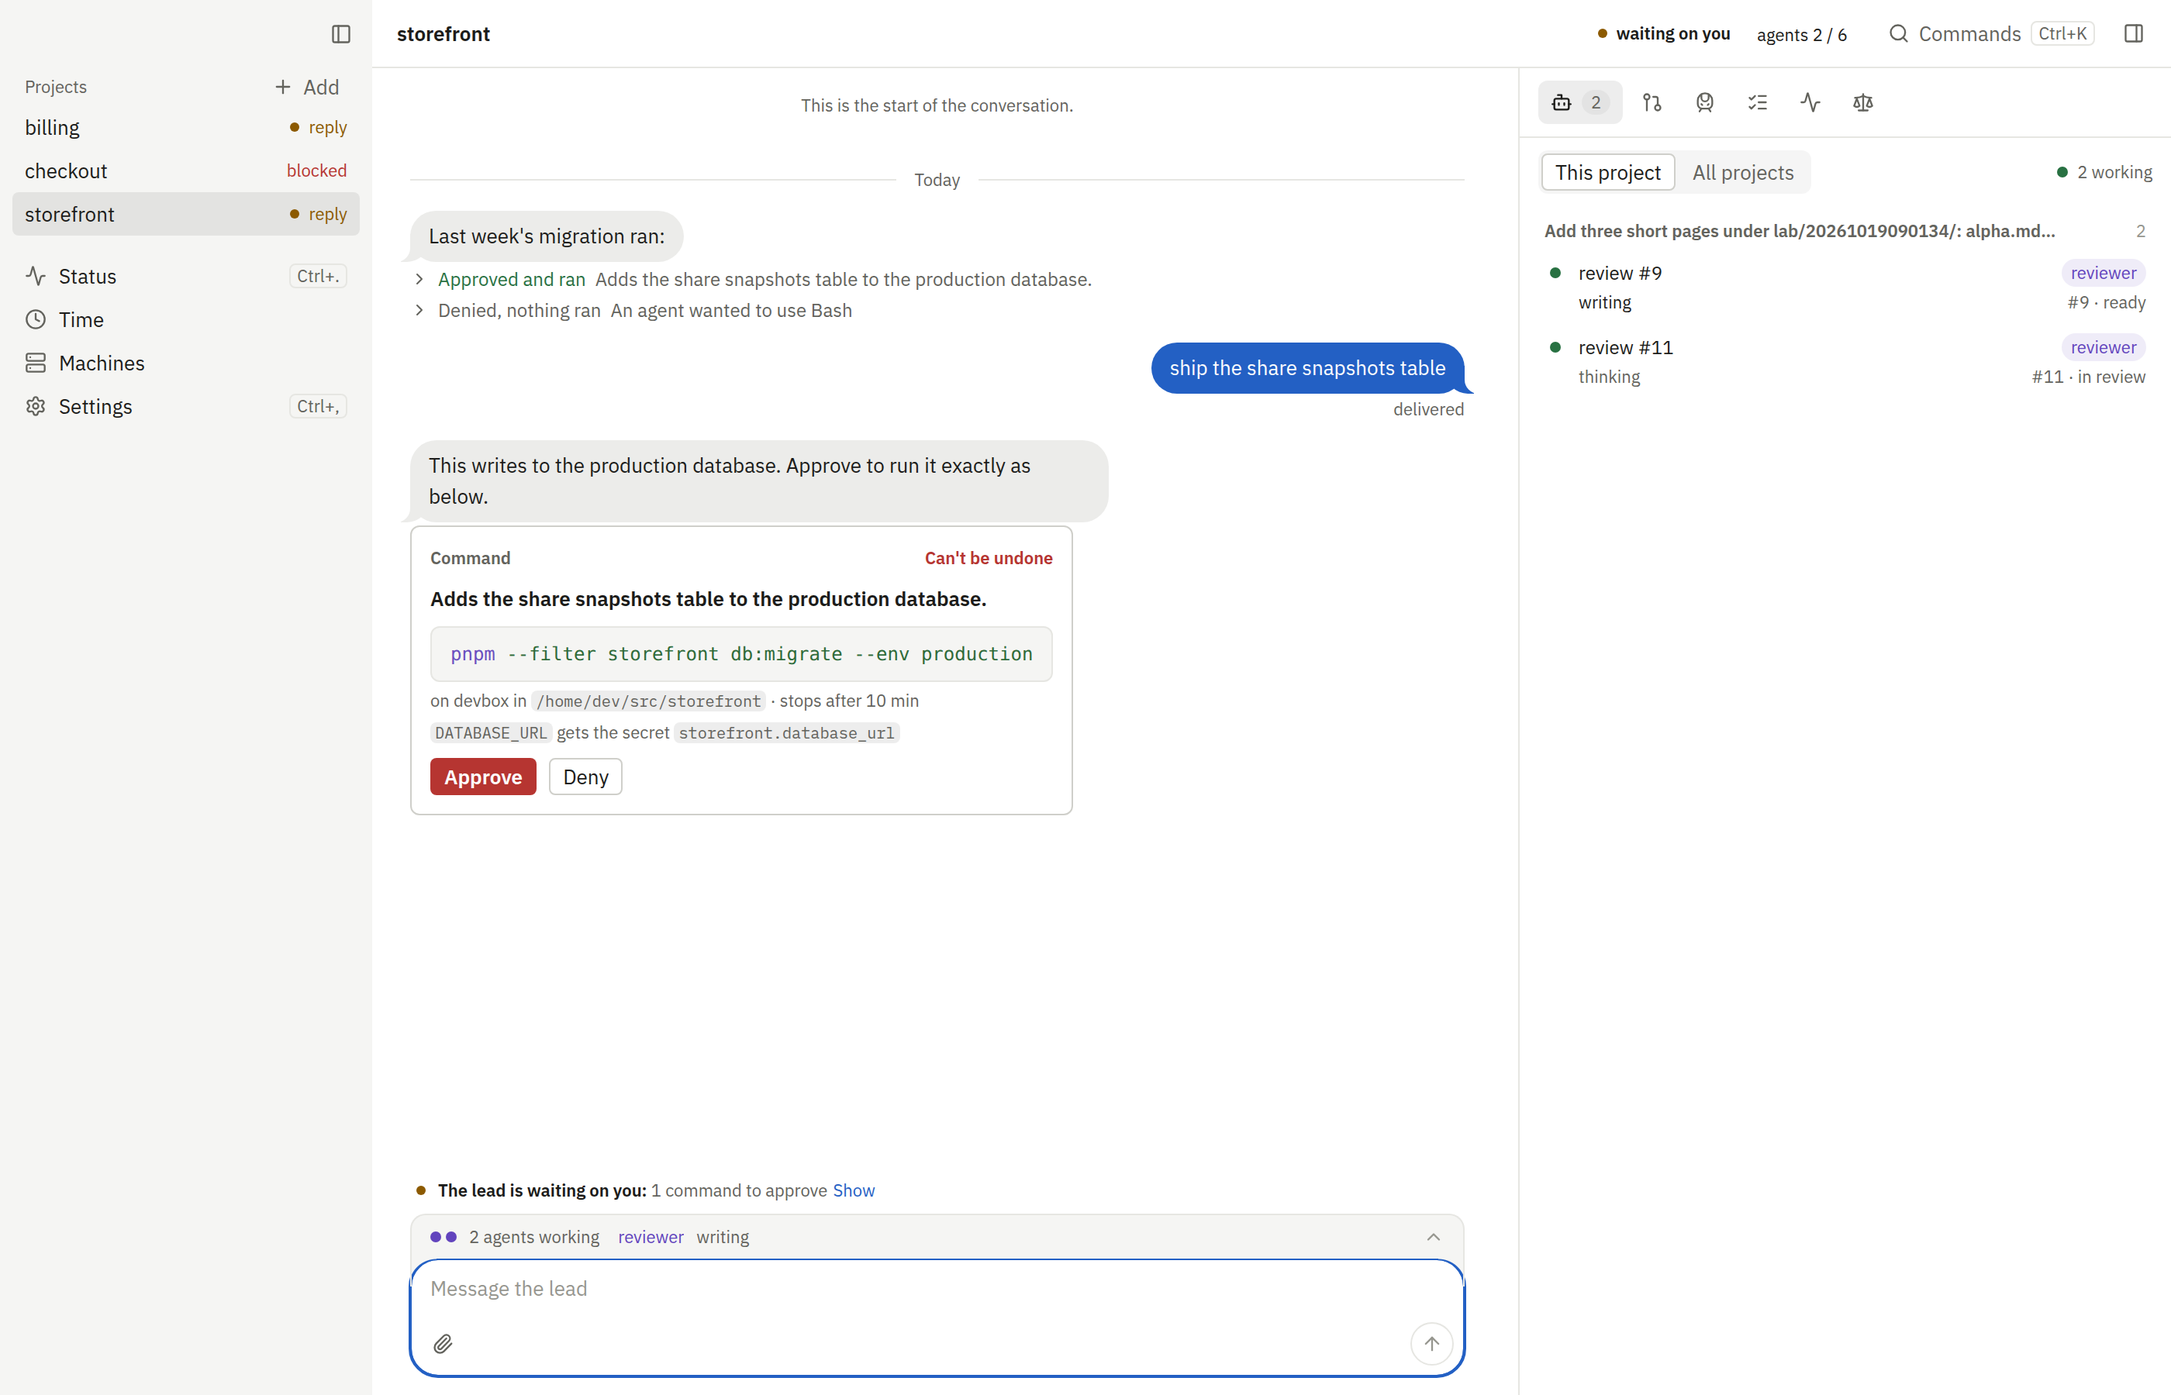
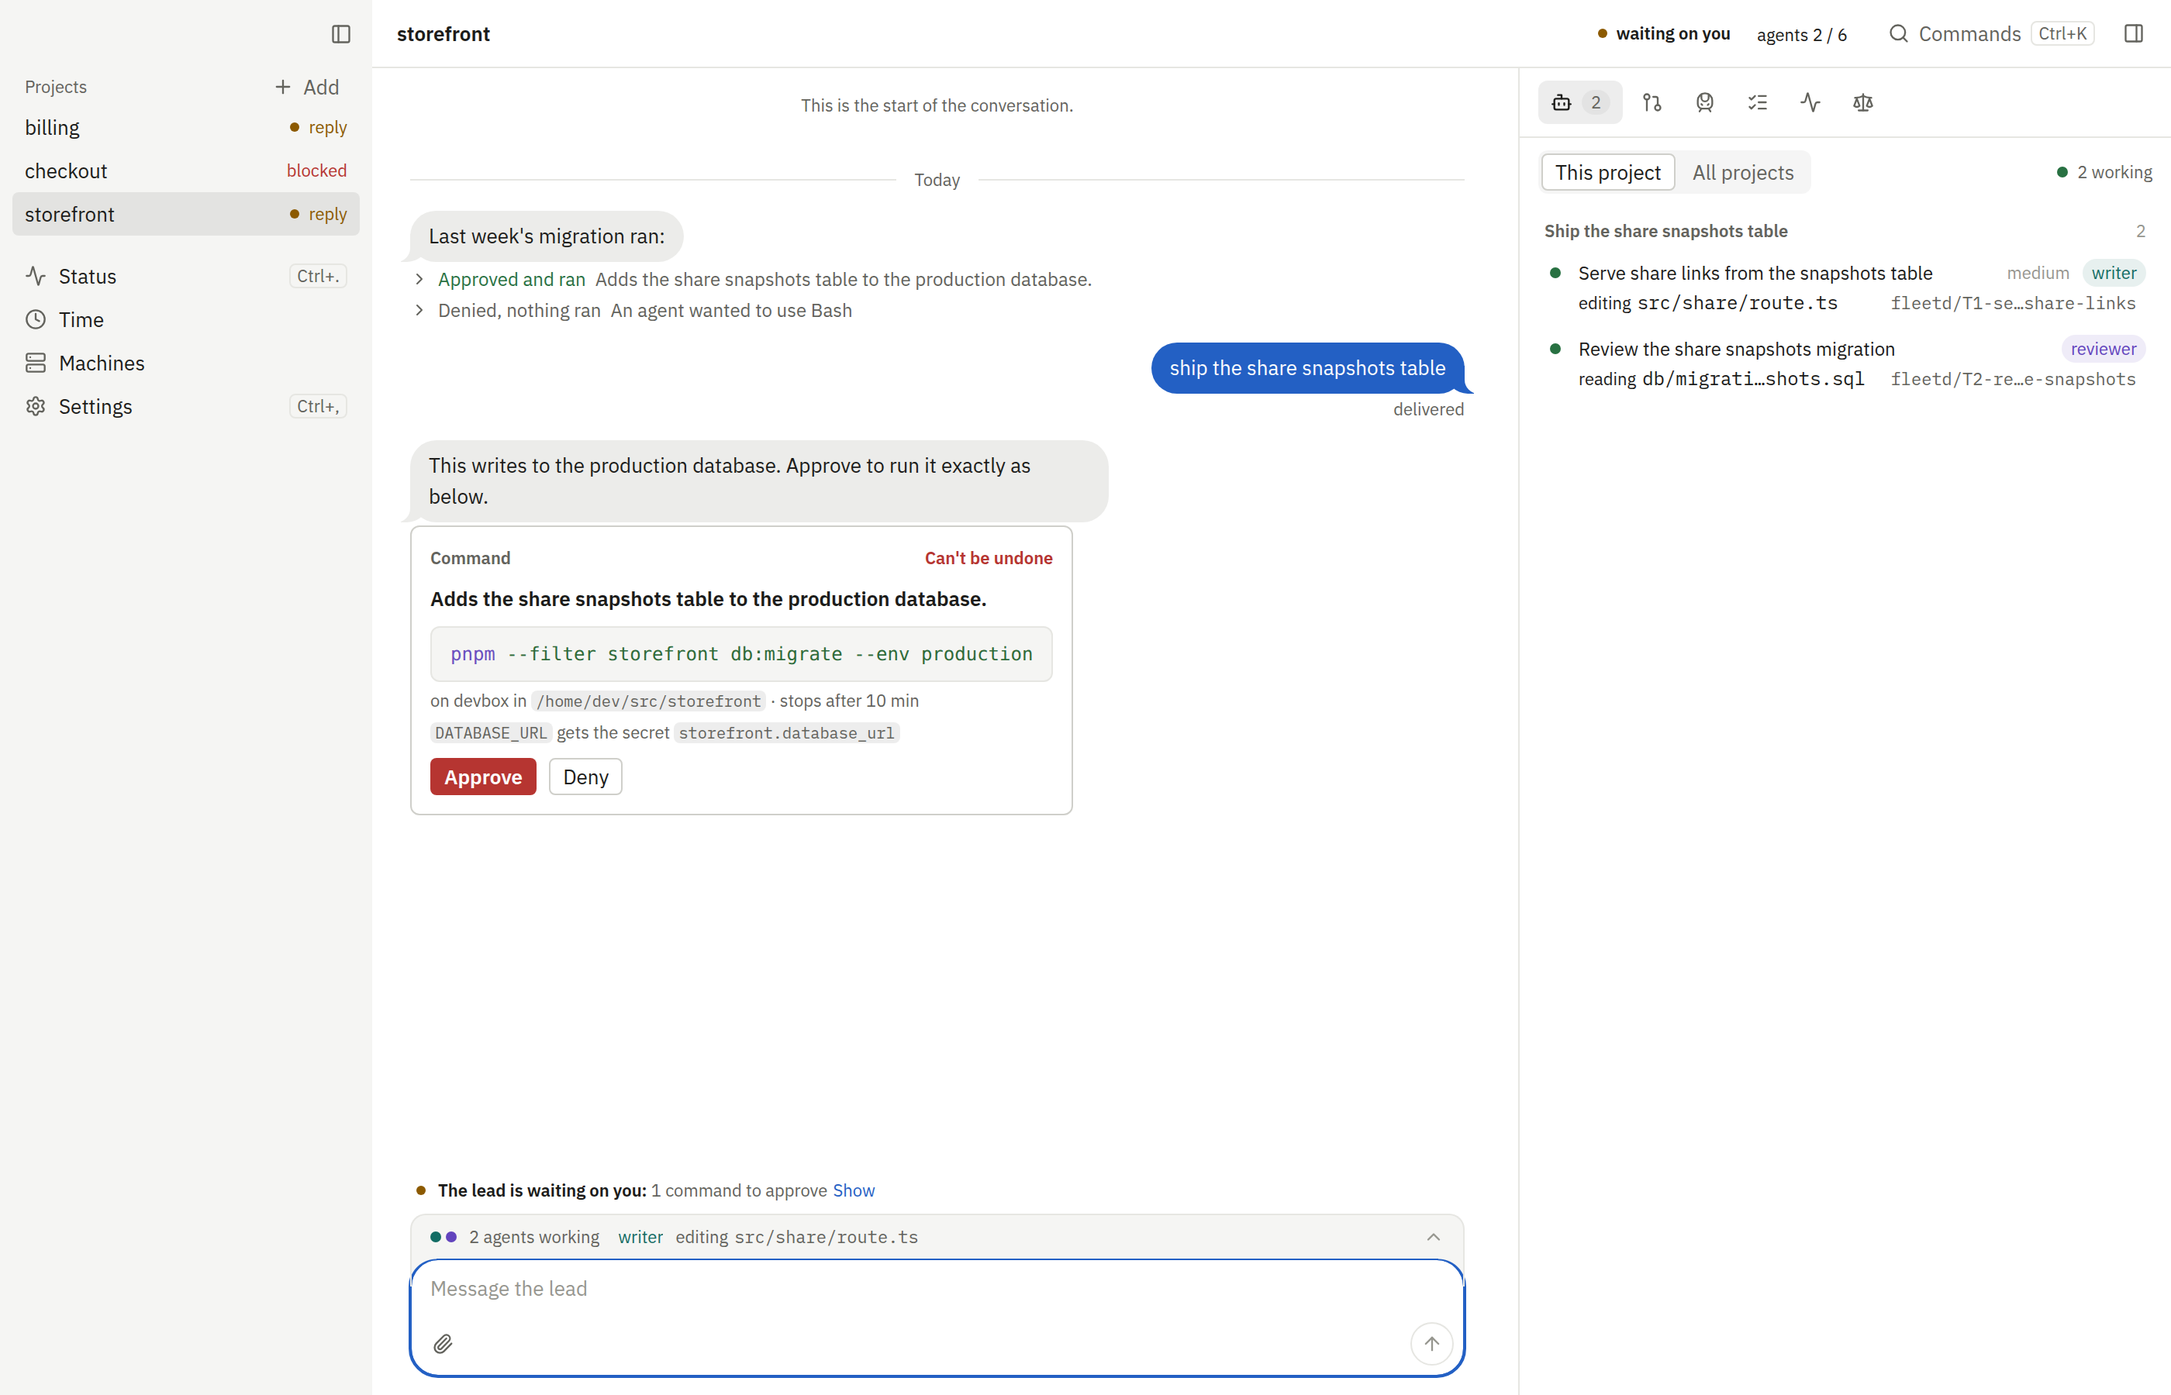
fix(site): panel tabs as the app names them, a true hero alt, scene-fitting panel in the approve and secret shots
- The panel's tabs on the page and in fleetd.txt: Agents, Pull requests, Train, Checklist, Activity and Decisions,
  the app's names in its order.
- The hero's alt text puts the live strip on top of the message box, where it sits now.
- chat-gated and chat-secret get agents on what their chat asked for (sceneStrip in the fixture kit), not the
  recorded lab order, so the panel in site/chat-approve.png, site/chat-secret.png and the docs' chat-command.png and
  chat-secret.png fits the scene. Re-shot with `pnpm site:shots`; alts name the panel's agents; site/docs rebuilt.
- site-layout-check.mjs drops the callout-note code the page no longer has, and names what sticks out when the page
  scrolls sideways.

Changed region(s): [[0.7146, 0.1556, 0.9321, 0.28], [0.9321, 0.1867, 0.9943, 0.28], [0.2796, 0.8711, 0.4039, 0.9022]]

diff --git a/app/desktop/fixtures/kit/shared.ts b/app/desktop/fixtures/kit/shared.ts
@@ -9,7 +9,7 @@ import { at } from "./ids.ts";
 import { isObject, type JsonObject, asText } from "./json.ts";
 import { arr, longText, manyAgents, manyPrompts, NODE_TOO_OLD } from "./stress.ts";
 import { explainLoss } from "../../src/main/hub/explain.ts";
-import { agentsAt, answerRows, commandApproval, LOG, SCREENSHOT, type Draft, firstProject, fromLines, liveStrip, migrated, type Ref, secretRequest, statusRow, streamReply, writeChat } from "./chat.ts";
+import { agentsAt, answerRows, commandApproval, LOG, SCREENSHOT, type Draft, firstProject, fromLines, liveStrip, migrated, type Ref, type SceneAgent, sceneStrip, secretRequest, statusRow, streamReply, writeChat } from "./chat.ts";
 import { longChat, QUESTION, STREAMING_REST, STREAMING_SO_FAR, TERSE } from "./chatText.ts";
 import { uuid } from "./ids.ts";
 import { LONG_TITLES, ofLength } from "./text.ts";
@@ -113,6 +113,7 @@ const withProjectsMix = (f: Fixture): Fixture => {
 
 const chatFixtures = (copy: (name: SharedName, note: string) => Fixture): Array<Fixture> => {
   const strip = (f: Fixture, n: number) => liveStrip(f, firstProject(f), n);
+  const scene = (f: Fixture, title: string, agents: ReadonlyArray<SceneAgent>) => sceneStrip(f, firstProject(f), title, agents);
   return [
     withChat(copy("chat-long", `${String(LONG)}+ messages in the first project's chat, paged 50 at a time: migrated past orders first, Markdown, code, lists, the lead's numbered question and terse replies.`), longDrafts()),
     (() => {
@@ -132,28 +133,44 @@ const chatFixtures = (copy: (name: SharedName, note: string) => Fixture): Array<
       { author: "human", text: "", attachments: [SCREENSHOT] },
       { author: "lead", text: "Got both. The date wraps under the total on narrow screens; a writer is fixing the layout." },
     ]),
-    withChat(
-      copy("chat-secret", "The lead needs a secret: an open masked entry inline, and an earlier one already stored."),
+    // The agents beside each item work on what its chat asked for, so the panel and the strip fit the scene (the
+    // site's approve and secret shots are these chats).
+    scene(
+      withChat(
+        copy("chat-secret", "The lead needs a secret: an open masked entry inline, and an earlier one already stored; two agents work on the checkout tests."),
+        [
+          { author: "lead", text: "Stored earlier for the receipt tests." },
+          { author: "lead", text: "", item: secretRequest("stored", copy("empty", "")) },
+          { author: "human", text: "run the checkout tests against Stripe test mode" },
+          { author: "lead", text: "Need the Stripe test key for that. It goes to devbox only and never into this chat." },
+          { author: "lead", text: "", item: secretRequest("open", copy("empty", "")) },
+        ],
+        { needsYou: true },
+      ),
+      "Run the checkout tests against Stripe test mode",
       [
-        { author: "lead", text: "Stored earlier for the receipt tests." },
-        { author: "lead", text: "", item: secretRequest("stored", copy("empty", "")) },
-        { author: "human", text: "run the checkout tests against Stripe test mode" },
-        { author: "lead", text: "Need the Stripe test key for that. It goes to devbox only and never into this chat." },
-        { author: "lead", text: "", item: secretRequest("open", copy("empty", "")) },
+        { role: "implementer", title: "Point the checkout tests at Stripe test mode", activity: { kind: "edit", path: "tests/checkout/stripe.setup.ts" } },
+        { role: "reader", title: "Read how the receipt tests use Stripe", activity: { kind: "read", path: "tests/receipt/charge.test.ts" } },
       ],
-      { needsYou: true },
     ),
-    withChat(
-      copy("chat-gated", "A risky command waits for Approve / Deny: the exact command inline; an earlier one ran, one was denied, and an agent's permission prompt."),
+    scene(
+      withChat(
+        copy("chat-gated", "A risky command waits for Approve / Deny: the exact command inline; an earlier one ran, one was denied, and an agent's permission prompt; two agents work on the share snapshots."),
+        [
+          { author: "lead", text: "Last week's migration ran:" },
+          { author: "lead", text: "", item: commandApproval("ran", copy("empty", "")) },
+          { author: "lead", text: "", item: commandApproval("denied", copy("empty", ""), true) },
+          { author: "human", text: "ship the share snapshots table" },
+          { author: "lead", text: "This writes to the production database. Approve to run it exactly as below." },
+          { author: "lead", text: "", item: commandApproval("open", copy("empty", "")) },
+        ],
+        { needsYou: true },
+      ),
+      "Ship the share snapshots table",
       [
-        { author: "lead", text: "Last week's migration ran:" },
-        { author: "lead", text: "", item: commandApproval("ran", copy("empty", "")) },
-        { author: "lead", text: "", item: commandApproval("denied", copy("empty", ""), true) },
-        { author: "human", text: "ship the share snapshots table" },
-        { author: "lead", text: "This writes to the production database. Approve to run it exactly as below." },
-        { author: "lead", text: "", item: commandApproval("open", copy("empty", "")) },
+        { role: "implementer", title: "Serve share links from the snapshots table", activity: { kind: "edit", path: "src/share/route.ts" } },
+        { role: "reviewer", title: "Review the share snapshots migration", activity: { kind: "read", path: "db/migrations/20261019_share_snapshots.sql" } },
       ],
-      { needsYou: true },
     ),
     strip(withChat(copy("chat-waiting", "The lead asked its numbered question and waits on you: the needs-you dot, no agents running."), fromLines(QUESTION).slice(0, 1), { needsYou: true }), 0),
     strip(withChat(copy("chat-empty", "A project whose chat has no messages yet, and no agents at work."), []), 0),

diff --git a/site/home.html b/site/home.html
@@ -170,7 +170,7 @@ summary:hover{color:var(--ink)}
 <!-- To re-shoot the screenshots: `pnpm site:shots` in app/desktop (site/README.md), then keep each alt text and caption
      true to its picture. -->
 <figure class="w lead-shot">
-  <a class="shot" href="/chat-hero.png"><img src="/chat-hero.png" width="2800" height="1800" alt="The fleetd app on storefront’s chat: you asked to round the cart totals once, in one place; the lead answered that the writers start from PR #10’s branch and split the change into three PRs. Under its reply, one line: 3 agents working. The panel’s Agents tab lists them: reviewers on #221 and #222 and a writer editing src/cart/total.ts. In the sidebar, billing waits on a reply and checkout is blocked."></a>
+  <a class="shot" href="/chat-hero.png"><img src="/chat-hero.png" width="2800" height="1800" alt="The fleetd app on storefront’s chat: you asked to round the cart totals once, in one place; the lead answered that the writers start from PR #10’s branch and split the change into three PRs. On top of the message box, the live strip: 3 agents working, a reviewer running the cart tests. The panel’s Agents tab lists them: reviewers on #221 and #222 and a writer editing src/cart/total.ts. In the sidebar, billing waits on a reply and checkout is blocked."></a>
   <figcaption><b>One chat per project.</b> Tell the lead what you want; it splits the work and runs the agents. The panel beside the chat shows what each agent is doing now.</figcaption>
 </figure>
 
@@ -182,7 +182,7 @@ summary:hover{color:var(--ink)}
   <ul class="feats">
     <li><h3>Chat with the lead</h3><p>Each project has one lead. It decides everything that isn’t a product, money, credential or irreversible call, asks you the rest in the chat, and logs each answer as a decision.</p><a href="/docs/chat">Chat with the lead</a></li>
     <li><h3>Agents and the merge train</h3><p>Writers open pull requests and reviewers check them. Only fleetd merges: each PR is reviewed, rebased onto its base branch and merged on green CI.</p><a href="/docs/merge-train">Merge train</a></li>
-    <li><h3>The panel</h3><p>Beside each chat, a tab each for the project’s Agents, PRs, Checklist, Train, Activity and Decisions. Watch an agent work, read a PR’s changes, see what merges next.</p><a href="/docs/desktop-app#panel">The desktop app</a></li>
+    <li><h3>The panel</h3><p>Beside each chat, a tab each for the project’s Agents, Pull requests, Train, Checklist, Activity and Decisions. Watch an agent work, read a PR’s changes, see what merges next.</p><a href="/docs/desktop-app#panel">The desktop app</a></li>
     <li><h3>Project settings and env vars</h3><p>Environment variables every agent of a project gets, plain or secret. A secret lives only on the project’s machine and is masked in agents’ output.</p><a href="/docs/projects#env">Projects</a></li>
     <li><h3>Automations</h3><p>A stored prompt that runs on a schedule, from a webhook, or with Run now. Each run becomes work the lead starts on its own.</p><a href="/docs/automations">Automations</a></li>
     <li><h3>Skills</h3><p>SKILL.md workflows from the repo, the project or the whole hub, for every agent. skills.sh and Claude Code skills work as they are.</p><a href="/docs/skills">Skills</a></li>
@@ -199,11 +199,11 @@ summary:hover{color:var(--ink)}
   </div>
   <div class="pair">
     <figure>
-      <a class="shot" href="/chat-approve.png"><img src="/chat-approve.png" width="2800" height="1800" loading="lazy" alt="storefront’s chat in the fleetd app: the lead says the command writes to the production database and asks you to approve it exactly as below. A Command card marked Can’t be undone shows pnpm --filter storefront db:migrate --env production on devbox, the secret DATABASE_URL gets, and Approve and Deny. Above it, last week’s migration, approved and run, and a denied request to use Bash."></a>
+      <a class="shot" href="/chat-approve.png"><img src="/chat-approve.png" width="2800" height="1800" loading="lazy" alt="storefront’s chat in the fleetd app: the lead says the command writes to the production database and asks you to approve it exactly as below. A Command card marked Can’t be undone shows pnpm --filter storefront db:migrate --env production on devbox, the secret DATABASE_URL gets, and Approve and Deny. Above it, last week’s migration, approved and run, and a denied request to use Bash. The panel’s Agents tab lists the two agents shipping the share snapshots table: a writer on the share route and a reviewer on the migration."></a>
       <figcaption><b>Approve what can’t be undone.</b> A command that can’t be undone, costs money or needs a credential waits, exactly as it will run, until you approve it.</figcaption>
     </figure>
     <figure>
-      <a class="shot" href="/chat-secret.png"><img src="/chat-secret.png" width="2800" height="1800" loading="lazy" alt="storefront’s chat in the fleetd app: the lead needs the Stripe test key, which goes to devbox only. A Secret card says it is saved as STRIPE_TEST_KEY in the project’s .env.test on devbox, with a masked field and Save secret. Above it, a secret saved earlier, shown only as saved."></a>
+      <a class="shot" href="/chat-secret.png"><img src="/chat-secret.png" width="2800" height="1800" loading="lazy" alt="storefront’s chat in the fleetd app: the lead needs the Stripe test key, which goes to devbox only. A Secret card says it is saved as STRIPE_TEST_KEY in the project’s .env.test on devbox, with a masked field and Save secret. Above it, a secret saved earlier, shown only as saved. The panel’s Agents tab lists the two agents on the checkout tests against Stripe test mode."></a>
       <figcaption><b>Secrets stay out of the chat.</b> You type a key into a masked field. It is sealed to the machine that uses it; the chat and the hub never see it.</figcaption>
     </figure>
   </div>

diff --git a/app/desktop/fixtures/kit/chat.ts b/app/desktop/fixtures/kit/chat.ts
@@ -179,19 +179,56 @@ export const commandApproval = (state: "open" | "ran" | "denied", f: Fixture, pe
  */
 export const liveStrip = (f: Fixture, ref: Ref, n: number): Fixture => agentsAt(f, [{ ref, n }]);
 
+// Left out of a scene agent's branch name, as a writer names its branch for what it changes.
+const FILLER = new Set(["a", "an", "the", "at", "to", "from", "how", "use", "of", "in", "on"]);
+
+/** One agent of a scene: its role, its task and what it's doing now. */
+export interface SceneAgent {
+  readonly role: "implementer" | "reviewer" | "qa" | "reader";
+  readonly title: string;
+  readonly activity: JsonObject;
+}
+
+/**
+ * The agents at work on what a chat asked for: one order named `title` with these agents, all working, so the panel
+ * beside the chat and the strip under it show that work and no other.
+ */
+export const sceneStrip = (f: Fixture, ref: Ref, title: string, agents: ReadonlyArray<SceneAgent>): Fixture =>
+  agentsAt(f, [{ ref, n: agents.length, scene: { title, agents } }], true);
+
 /**
  * Agents at work in several projects at once: each project's `n` lanes on its own orders (a hub order holds at
  * most 12), on the board and in order_get, and one full live frame with every lane. With `allWorking` every lane is
  * "working", so a project's running count is exactly `n` (as a status row's agentsRunning says).
  */
-export const agentsAt = (f: Fixture, projects: ReadonlyArray<{ ref: Ref; n: number }>, allWorking = false): Fixture => {
+export const agentsAt = (
+  f: Fixture,
+  projects: ReadonlyArray<{ ref: Ref; n: number; scene?: { title: string; agents: ReadonlyArray<SceneAgent> } }>,
+  allWorking = false,
+): Fixture => {
   const start = at(f.now, -30 * 60_000);
   const orders: Array<JsonObject> = [];
   const live: Array<JsonObject> = [];
   let next = 0;
-  for (const { ref, n } of projects) {
-    const lanes = Array.from({ length: n }, () => {
-      const lane = agentLane(f, next++, false, ref.machineId, start);
+  for (const { ref, n, scene } of projects) {
+    const lanes = Array.from({ length: n }, (_, i) => {
+      const generic = agentLane(f, next++, false, ref.machineId, start);
+      const own = scene?.agents[i];
+      const lane =
+        own === undefined
+          ? generic
+          : {
+              ...generic,
+              role: own.role,
+              title: own.title,
+              branch: `fleetd/${asText(generic["taskId"], "T1")}-${own.title
+                .toLowerCase()
+                .split(/[^a-z0-9]+/u)
+                .filter((w) => w !== "" && !FILLER.has(w))
+                .slice(0, 3)
+                .join("-")}`,
+              live: { ...obj(generic["live"]), activity: { activity: own.activity, since: at(f.now, -(i + 1) * 4000) } },
+            };
       return allWorking ? { ...lane, status: "working", live: { ...obj(lane["live"]), status: "working" } } : lane;
     });
     live.push(...lanes.map((l) => obj(l["live"])));
@@ -202,7 +239,7 @@ export const agentsAt = (f: Fixture, projects: ReadonlyArray<{ ref: Ref; n: numb
       });
       orders.push({
         workstreamId: `W${String(orders.length + 1)}`,
-        title: LONG_TITLES[orders.length % LONG_TITLES.length] ?? "",
+        title: scene?.title ?? LONG_TITLES[orders.length % LONG_TITLES.length] ?? "",
         projectRef: { ...ref },
         createdAt: at(f.now, -40 * 60_000),
         updatedAt: at(f.now, -5_000),
